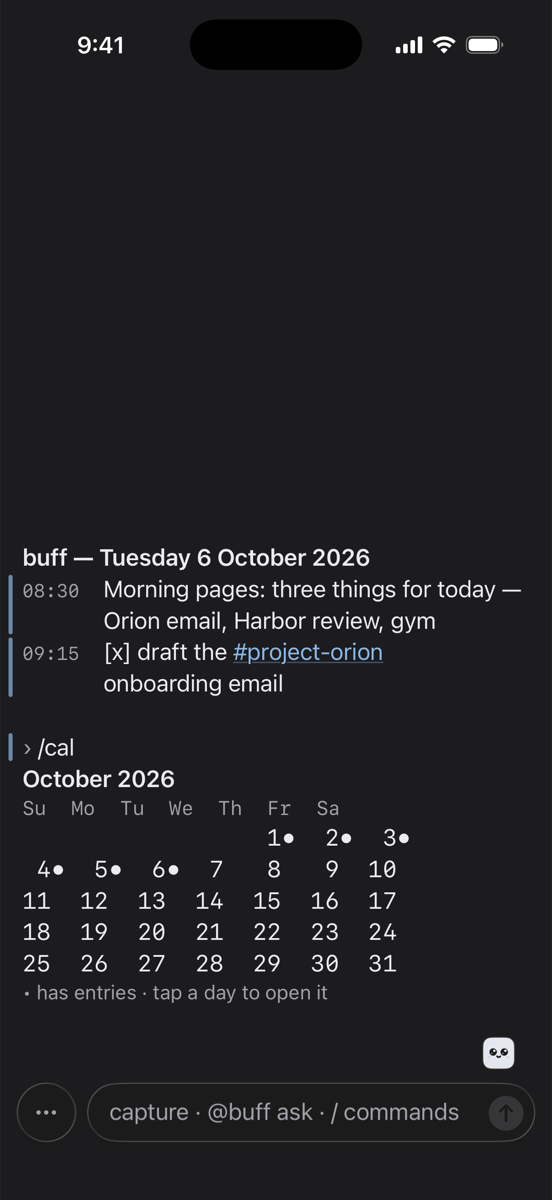
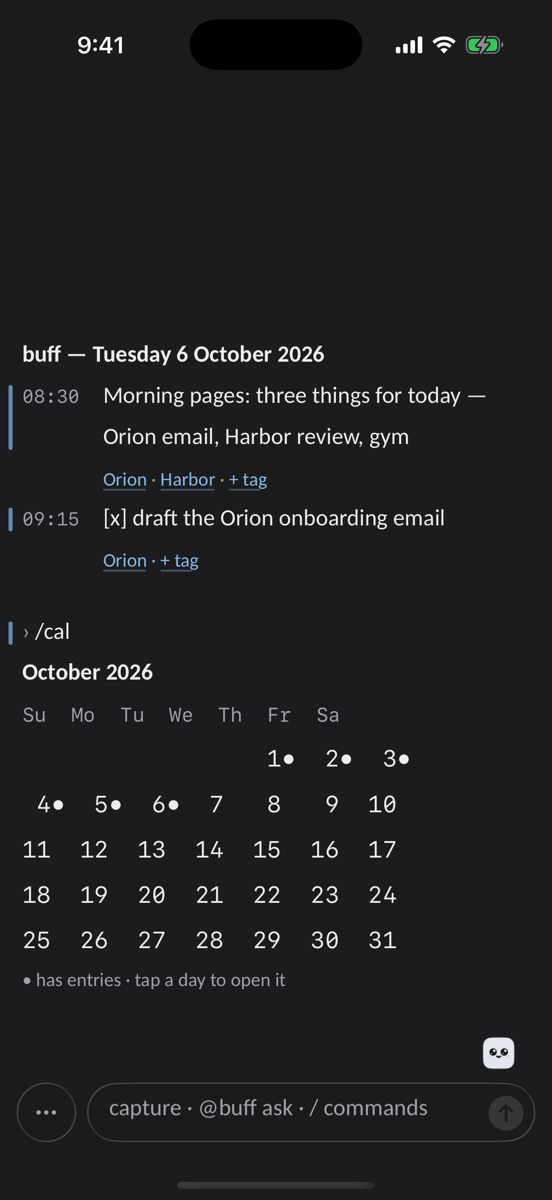
Build 5: plain notes with a tag line, + tag, Siri reply and Type in buff, iPad keyboard shortcut, new screenshots
- Tags: how tagged notes read, tag a note later; todos: tag a todo
- Capture anywhere: Siri reads back what it saved, Type in buff, keyboard shortcut on iPad
- Options: new defaults (Carlito, Airy, system text size), Tags under notes
- Getting started, Ask buff, commands and docs index updated
- Six screenshots retaken from the demo vault (build 5)

diff --git a/docs/getting-started.md b/docs/getting-started.md
@@ -30,11 +30,11 @@ Forgot to note something yesterday?
 ## Fix a mistake
 - `/edit` puts today's last note back in the box. Change it and press Send to save the new version.
 - `/undo` removes the last note this device saved today. It asks you to confirm first.
-- `/tag @jane-doe` adds a tag to today's last note; `/tag #project-atlas 09:30` adds it to the note saved at 09:30.
+- Tap **+ tag** under a note to tag it later, from a short list of names. See [Tag a note later](tags.md#tag-a-note-later).
 
 ## Commands
 Anything starting with `/` is a command. You don't need to memorise them:
-- `/help` lists them in groups; tap one to put it in the box.
+- `/help` lists them in groups; tap one to put it in the box. Its last line links to these docs.
 - `/help week` explains one command with examples; `/help all` shows everything.
 - While you type `/`, `@` or `#`, a line of suggestions appears above the box, with a hint like *person* or *project*. Typing the start of a name you've used before (`Ale`) suggests its tag (`@alex-demo`). Tap a suggestion to complete it (on a hardware keyboard, press Tab).
 - A typo gets a suggestion: `/wek isn't a command. Did you mean /week?`
@@ -44,7 +44,7 @@ Anything starting with `/` is a command. You don't need to memorise them:
 Output is plain text, but parts of it work like links: tags, dates, file citations and numbered todos. Tapping one runs the matching command, for example tapping `#project-atlas` shows that project.
 
 ## Meet buff
-buff sits just above the box. It blinks now and then, squints happily when you save a note, raises an eyebrow when it isn't sure what you mean, looks sleepy when there's nothing to show, and waves when you take the tour. While AI is working, dots rise beside it and *buff is thinking…* appears. With Reduce Motion on, buff stays still and only its face changes.
+buff sits just above the box. It blinks now and then, squints happily when you save a note, raises an eyebrow when it isn't sure what you mean, looks sleepy when there's nothing to show, and waves when you take the tour. Tap buff to start a question: `@buff ` appears in the box. While AI is working, dots rise beside it and *buff is thinking…* appears. With Reduce Motion on, buff stays still and only its face changes.
 
 ## The tour
 `/tour` adds a few demo notes and walks you through seven steps: saving, todos, what's waiting, tagging a name, asking in plain words and looking at a project. At the naming step, send the note, then tap *tag Alex* (or just press Send) to tag it. `/tour stop` ends it early; `/tour clean` removes the demo notes again.
@@ -56,6 +56,7 @@ buff sits just above the box. It blinks now and then, squints happily when you s
 | Return | Send (can be turned off in Options) |
 | Shift-Return | New line |
 | ↑ / ↓ | Previous / next command you typed |
+| *(any key)* | Typing always goes to the box, without tapping it first |
 | Tab | Accept the suggestion |
 | ⌘K | Clear the screen |
 | ⌘, | Open Options |

diff --git a/docs/index.md b/docs/index.md
@@ -12,7 +12,7 @@ Everything buff can do, grouped by what you're trying to do. Tap a feature for i
 | [Save a note](getting-started.md#save-a-note) | Type anything and press Send; it's filed under today | *just type* |
 | [Another day](getting-started.md#save-under-another-day) | File a note under a past day | `/on yesterday …` |
 | [Fix a mistake](getting-started.md#fix-a-mistake) | Change or remove today's last note | `/edit` · `/undo` |
-| [Add tags later](getting-started.md#fix-a-mistake) | Tag a note you've already saved | `/tag @jane-doe` |
+| [Add tags later](tags.md#tag-a-note-later) | Tag any note you've already saved, from a short list | **+ tag** |
 | [Tag a run of notes](tags.md#tag-a-run-of-notes) | Add one tag to every note until you stop | `/use #project-atlas` |
 
 ## Capture from other apps
@@ -21,6 +21,8 @@ Everything buff can do, grouped by what you're trying to do. Tap a feature for i
 |---|---|---|
 | [Share sheet](capture-anywhere.md#share-sheet) | Send text or links from any app | Share → buff |
 | [Siri](capture-anywhere.md#siri) | Save a note by voice, without opening buff | "Add to buff" |
+| [Type in buff](capture-anywhere.md#type-in-buff) | Open buff with the keyboard ready | "Type in buff" |
+| [iPad keyboard shortcut](capture-anywhere.md#a-keyboard-shortcut-on-ipad) | Save a note from any app with one key combination | ⌥⌘B *(your choice)* |
 | [Shortcuts, Back Tap, Action button](capture-anywhere.md#shortcuts) | One-tap or dictated capture | *Add to buff* action |
 | [Documents](capture-anywhere.md#documents) | Turn a PDF, Word or text file into a searchable note | `/ingest` |
 
@@ -29,6 +31,7 @@ Everything buff can do, grouped by what you're trying to do. Tap a feature for i
 | Feature | What it does | Try it |
 |---|---|---|
 | [Tags](tags.md#the-three-kinds-of-tag) | Link a note to a person, project or topic | `@jane-doe` `#project-atlas` |
+| [Plain notes](tags.md#how-tagged-notes-read) | Notes read as plain words; names on a line below | *Options → Tags under notes* |
 | [Aliases](tags.md#names-buff-learns) | Teach buff other names for someone | `/alias @jane-doe Jane` |
 | [You](tags.md#names-buff-learns) | Tell buff your own name | `/self Your Name` |
 | [Everything about one](tags.md#see-everything-about-one) | All notes about a person or project | `/show #project-atlas` |

diff --git a/docs/capture-anywhere.md b/docs/capture-anywhere.md
@@ -11,7 +11,24 @@ You don't have to open buff to save a note. These ways all file the note under t
 In any app, tap **Share → buff**. Add `#tags` if you like, then tap **↑ Save**. Shared notes are filed under the day you shared them the next time you open buff.
 
 ## Siri
-Say **"Add to buff"** (or "Save to buff"). Siri asks what to save and saves it without opening the app.
+Say **"Add to buff"** (or "Save to buff", "Add a note to buff"). Siri asks *"What should I save to buff?"*: say your note. buff saves it without opening, then Siri reads it back with the people and projects it was filed under and any todo it added, and shows it on a small card.
+
+- Say the phrase first and the note after Siri asks. "Save to buff, I need more water" in one breath doesn't work: Siri doesn't let any app take free text inside the phrase.
+- The first time, Siri may ask whether to set up *Add to buff*. Say yes.
+- If Siri doesn't recognise buff, check **Settings → Apps → buff → Siri** is on, and open buff once.
+- **Prefer typing?** With Type to Siri turned on (in your iPhone or iPad Siri settings), you can type your answer to *"What should I save to buff?"*.
+
+## Type in buff
+Say **"Type in buff"** (or "Write in buff"). buff opens with the keyboard already up, ready for a longer note. It's also an action in the Shortcuts app, so you can put it on the Action button or Back Tap.
+
+## A keyboard shortcut on iPad
+With a keyboard attached you can save a note from any app with one key combination:
+
+1. In **Shortcuts**, make a new shortcut with the action **Add to buff**, and set its **Text** to **Ask Each Time**.
+2. In **Settings → Accessibility → Keyboards → Full Keyboard Access**, turn it on, tap **Commands**, find your shortcut and press the keys you want (for example ⌥⌘B).
+3. Anywhere, press those keys, type your note and press Return.
+
+Full Keyboard Access also turns on keyboard navigation across iPadOS (Tab moves between controls). Without any setup, **⌘Space**, then "add to buff" and Return, does the same from Spotlight.
 
 ## Shortcuts
 buff adds an **Add to buff** action to the Shortcuts app. It takes the text to save and, optionally, a day (leave it empty for today). Some useful shortcuts:

diff --git a/docs/options.md b/docs/options.md
@@ -5,19 +5,20 @@ permalink: /docs/options/
 
 [buff docs](index.md) › Options
 
-Tap **⋯** to the left of the box (or press ⌘, on a keyboard). Settings are stored on your device.
+Tap **⋯** to the left of the box (or press ⌘, on a keyboard). Settings are stored on your device. The defaults below apply to new installs; changing a setting keeps your choice.
 
 ## Appearance
 - **Light or dark:** System (follows your iPhone), Light or Dark.
 - **Theme:** Grey (the default), Beige or Salmon, each with its own dark version.
-- **Font:** SF Pro (the default, the iPhone's own font), SF Mono, a typewriter-style font, or Carlito, a softer font similar to Calibri. Times and lined-up columns stay in typewriter style either way.
+- **Font:** Carlito (the default), a soft font similar to Calibri, SF Pro (the iPhone's own font), or SF Mono, a typewriter-style font. Times and lined-up columns stay in typewriter style either way.
 - **Text size:** 14 to 30 points.
-- **Line spacing:** Compact fits more on screen, Normal, or Airy for easier reading. The sample text shows the difference as you switch.
+- **Line spacing:** Compact fits more on screen, Normal, or Airy (the default) for easier reading. The sample text shows the difference as you switch.
 - On iPad, the text sits in a comfortable reading column in the middle of the screen.
 
 ## Reading comfort
-- **Use system text size** follows Settings → Display & Brightness → Text Size instead of buff's own size.
+- **Use system text size** (on by default) follows Settings → Display & Brightness → Text Size instead of buff's own size.
 - **Focus fade** shows older output in a quieter colour so the latest command stands out.
+- **Tags under notes** (on by default): notes and todos read as plain words, with their people and projects on a quiet line below. See [How tagged notes read](tags.md#how-tagged-notes-read).
 
 ## Input
 - **Command completion:** the line of suggestions while you type `/`, `@` or `#`.

diff --git a/docs/tags.md b/docs/tags.md
@@ -17,6 +17,27 @@ Tags tie a note to the people, projects and subjects it's about. Later you can s
 
 A note can have any number of tags, anywhere in the text. buff fixes a few near misses itself: `#projects-atlas` becomes `#project-atlas`, and a bare `#atlas` becomes `#project-atlas` if that's the only project it could mean.
 
+## How tagged notes read
+On screen, notes read as plain words. Tags at the end of a note move to a small, quiet line underneath:
+
+```
+coffee about the launch @maya-chen #project-orion
+```
+reads as **coffee about the launch**, with **Maya Chen · Orion · + tag** below it. Tap a name to see everything about that person or project.
+
+A tag inside a sentence reads as the name: `met @jane-doe about the budget` reads **met Jane Doe about the budget**.
+
+Only the screen changes. Your [notes files](vault.md) keep every tag exactly as you typed it. To see tags inline instead, turn off **Options → Reading comfort → Tags under notes**.
+
+## Tag a note later
+Tap **+ tag** under any note, from today or any earlier day. buff lists:
+- **suggested:** names it found in the note that you haven't tagged yet (say "call Maya" when it knows `@maya-chen`);
+- then your **people** and **projects**.
+
+One tap tags the note. Nothing is ever tagged without that tap. For someone new, tap **someone or something new?** and type the tag.
+
+You can also type it: `/tag @jane-doe` tags today's last note, `/tag #project-atlas 09:30` the note saved at 09:30, and `/tag Jane 2026-10-05 14:10` a note on another day (a name buff knows works without the `@`).
+
 ## Notes on hold
 If a tag doesn't follow the pattern (say `@Jane` or `#project_atlas`), buff still saves the note exactly as written but doesn't file it under anyone. It tells you, with a suggested fix. `/lint` lists every note on hold.
 

diff --git a/docs/commands.md b/docs/commands.md
@@ -15,7 +15,8 @@ Every command, grouped as in `/help`. In the app, `/help <command>` shows detail
 | `/on <date> <text>` | Save a note under another day |
 | `/edit` | Load today's last note into the box; Send saves the change |
 | `/undo` | Remove the last note this device saved today (asks first) |
-| `/tag <@person or #tag> [HH:MM]` | Add tags to today's last note, or the one at that time |
+| `/tag <tags> [date] [HH:MM]` | Add tags to a note (today's last by default). Without tags it shows a list to tap |
+| `/tag <tags> todo <n>` | Add a person or project to todo *n* from the last `/todos` |
 | `/use <tag>` · `/use off` | Add a tag to every note until `/use off` (today only) |
 | `/ingest [#tags]` | Add a document (PDF, text, Word…) to `sources/` |
 

diff --git a/index.md b/index.md
@@ -13,7 +13,7 @@ Free for iPhone and iPad. Coming soon to the App Store.
 <p><a class="button" href="{{ '/docs/' | relative_url }}">Read buff docs →</a> <a class="button secondary" href="{{ '/support/' | relative_url }}">Get support</a></p>
 
 <p>
-<img src="assets/01-capture.png" alt="A note saved and filed under a person and a project" width="30%">
+<img src="assets/01-capture.png" alt="A note saved in plain words, with its person and project on a quiet line below" width="30%">
 <img src="assets/02-ask.png" alt="Asking buff what's waiting, in the beige theme" width="30%">
 <img src="assets/03-cal.png" alt="The month as a calendar, days with notes marked, in dark mode" width="30%">
 </p>

diff --git a/docs/todos.md b/docs/todos.md
@@ -34,6 +34,9 @@ Add "by" and a day: `Do: send the cost breakdown by fri`. buff understands `toda
 - `/todos #project-atlas` or `/todos @bob-smith` for one project or person.
 - `/due` shows what's overdue and what's due in the next seven days.
 
+## Tag a todo
+Todos read as plain words, with their people and projects after a "·". To file one under a person or project later, type `/tag todo 2` and tap a name, or `/tag #project-atlas todo 2` directly. It then appears under that project in `/todos`.
+
 ## Close a todo
 - `/done 2` closes number 2 from the last list. Tapping a todo puts `/done 2` in the box for you.
 - `/done cost breakdown` closes the todo containing those words.

diff --git a/docs/ask-buff.md b/docs/ask-buff.md
@@ -5,7 +5,7 @@ permalink: /docs/ask-buff/
 
 [buff docs](index.md) › Ask buff in plain words
 
-Don't remember the command? Start with `@buff` and say what you want:
+Don't remember the command? Start with `@buff` and say what you want, or tap buff's face above the box to start one:
 
 ```
 @buff what's waiting for me
